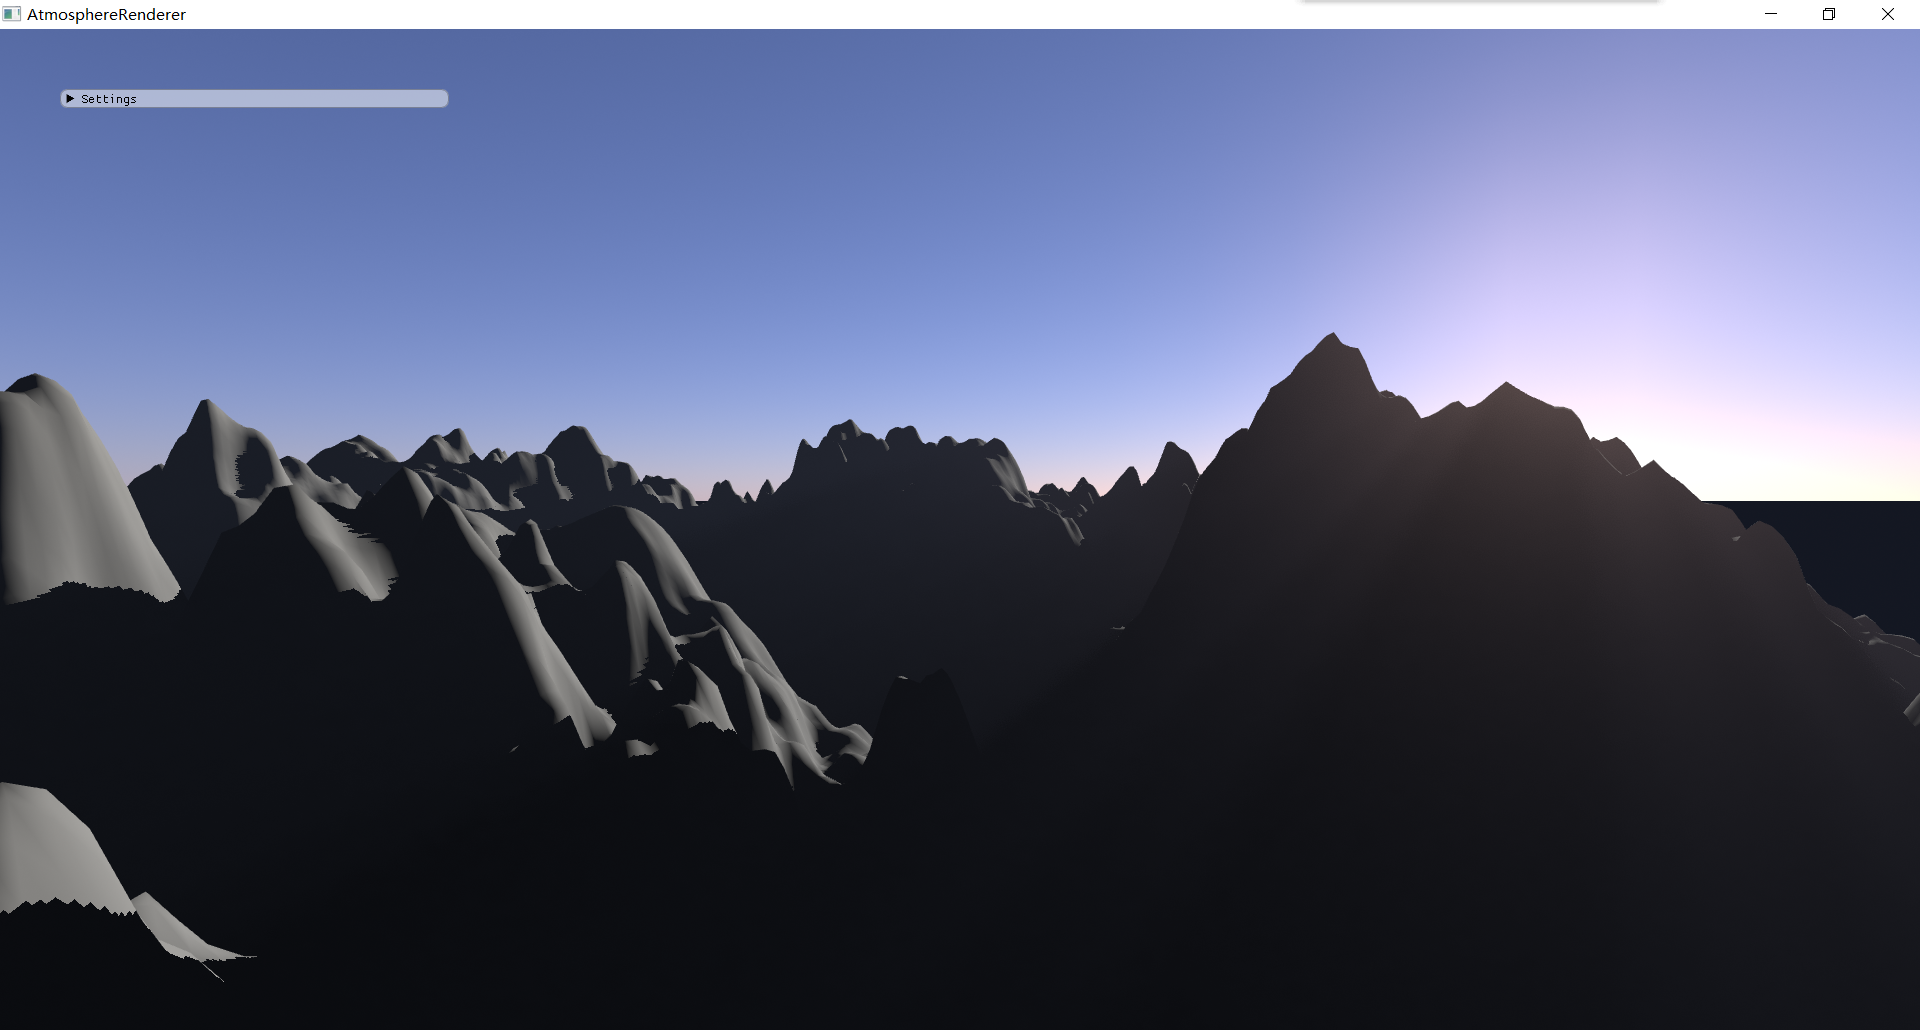
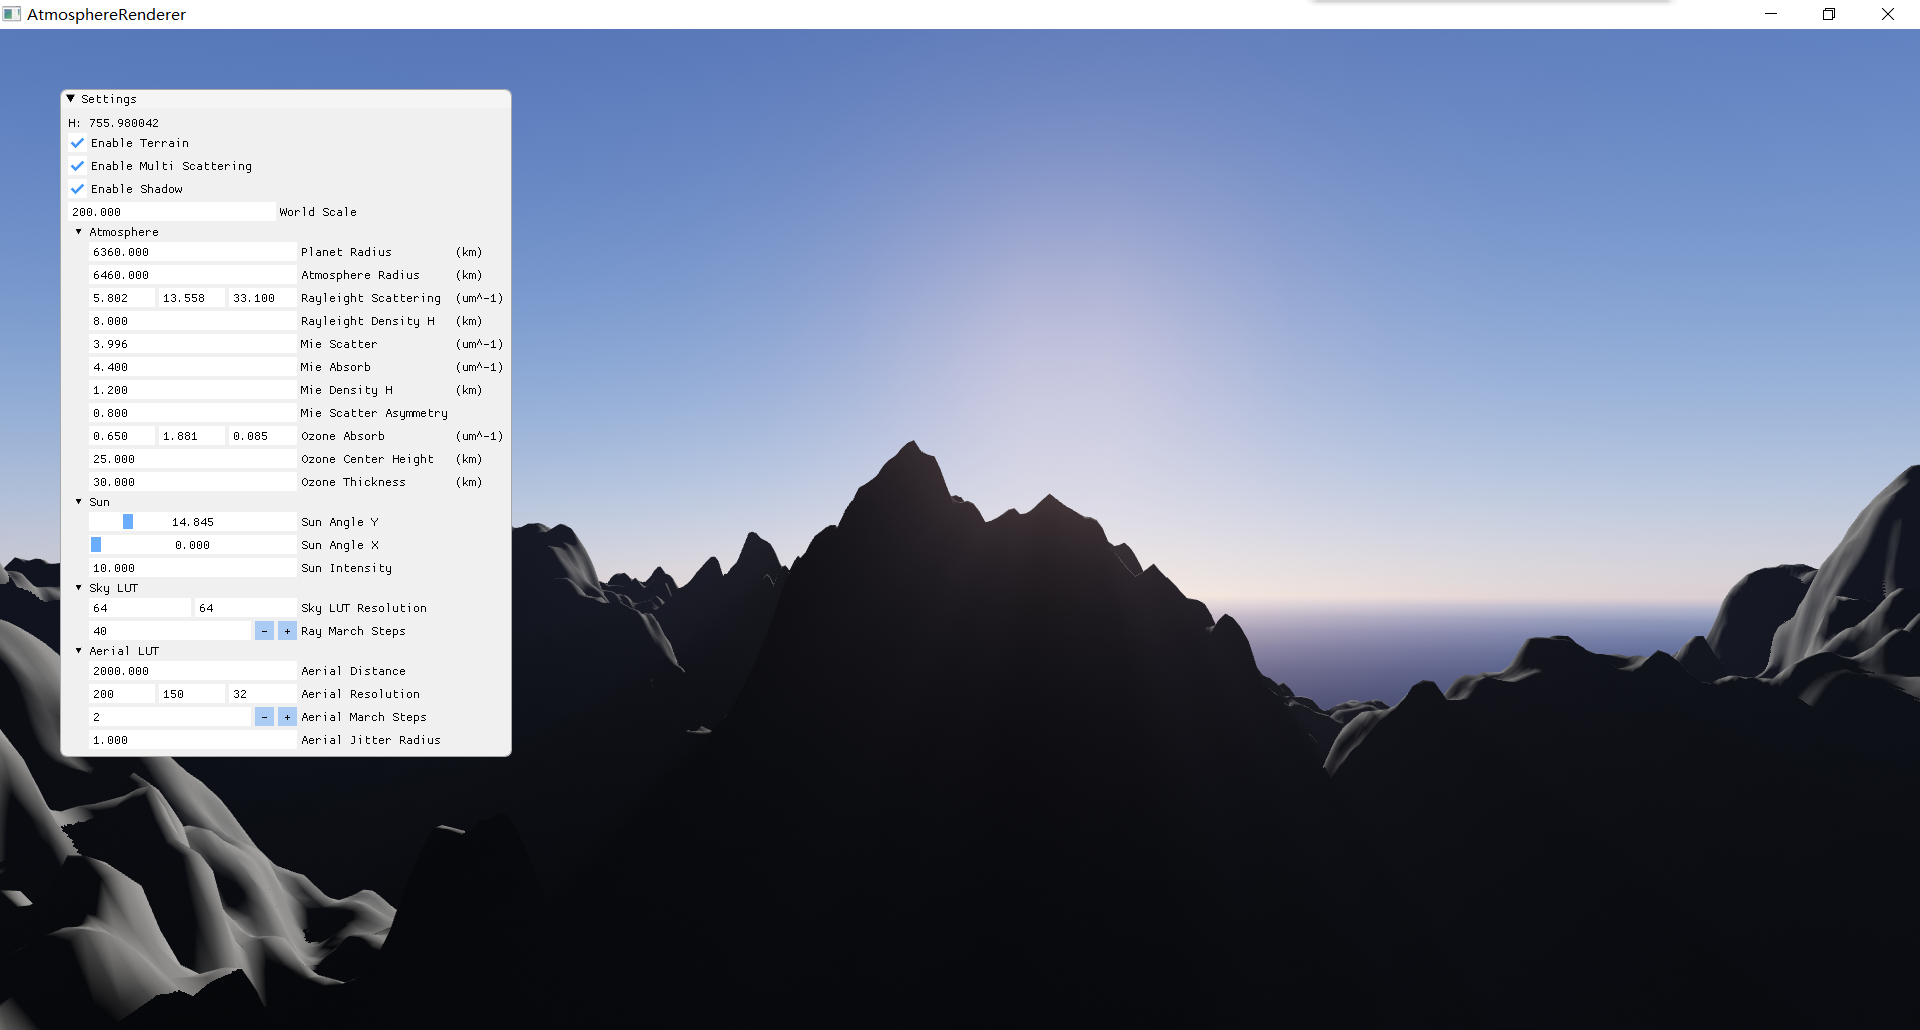
add tone mapping; fix sky view lookup

diff --git a/src/main.cpp b/src/main.cpp
@@ -32,7 +32,7 @@ private:
     
     float sunAngleX_          = 0;
     float sunAngleY_          = 11.6f;
-    float sunIntensity_       = 13;
+    float sunIntensity_       = 7;
 
     bool enableTerrain_      = true;
     bool enableShadow_       = true;
@@ -139,7 +139,7 @@ private:
         AGZ_SCOPE_GUARD({ ImGui::End(); });
         if(!ImGui::Begin("Settings", nullptr, ImGuiWindowFlags_AlwaysAutoResize))
             return;
-
+        
         ImGui::Checkbox("Enable Terrain", &enableTerrain_);
         ImGui::Checkbox("Enable Multi Scattering", &enableMultiScatter_);
         ImGui::Checkbox("Enable Shadow", &enableShadow_);

diff --git a/src/sky_lut.cpp b/src/sky_lut.cpp
@@ -73,7 +73,6 @@ void SkyLUT::generate(
 
     psParamsData_.sunDirection = sunDirection;
     psParamsData_.sunIntensity = sunIntensity;
-    psParamsData_.sunTheta     = std::asin(-sunDirection.y);
     psParams_.update(psParamsData_);
     
     transmittanceSlot_->setShaderResourceView(std::move(transmittance));

diff --git a/src/sky_lut.h b/src/sky_lut.h
@@ -36,7 +36,7 @@ private:
         int    enableMultiScattering;
 
         Float3 sunIntensity;
-        float  sunTheta;
+        float  pad0;
     };
 
     Shader<VS, PS>         shader_;
